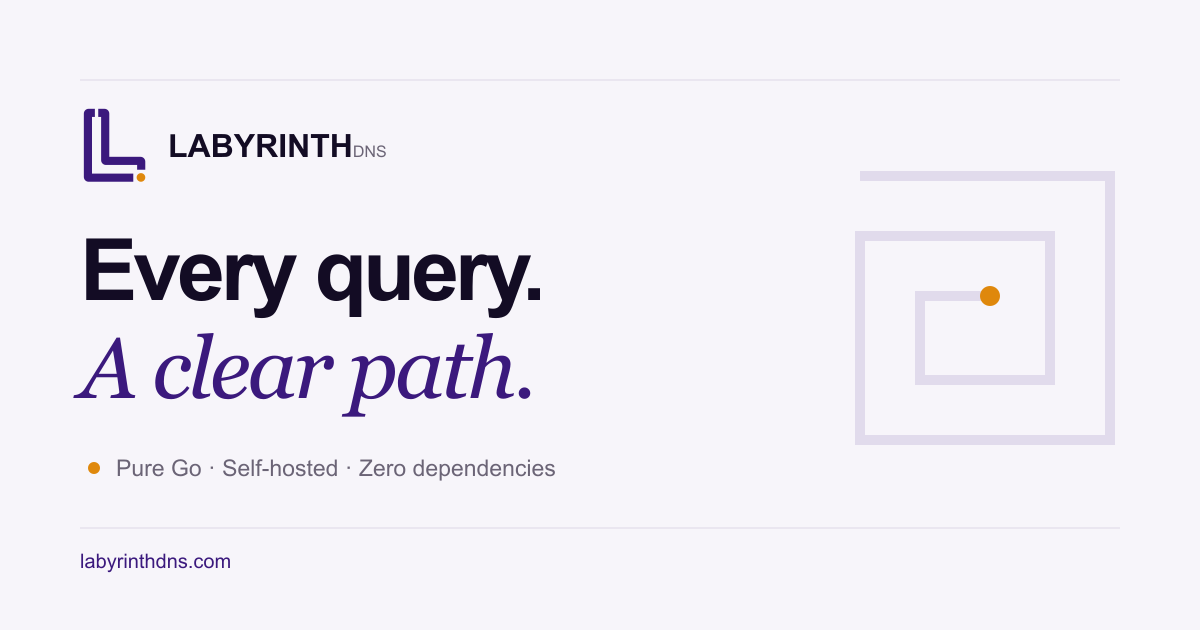
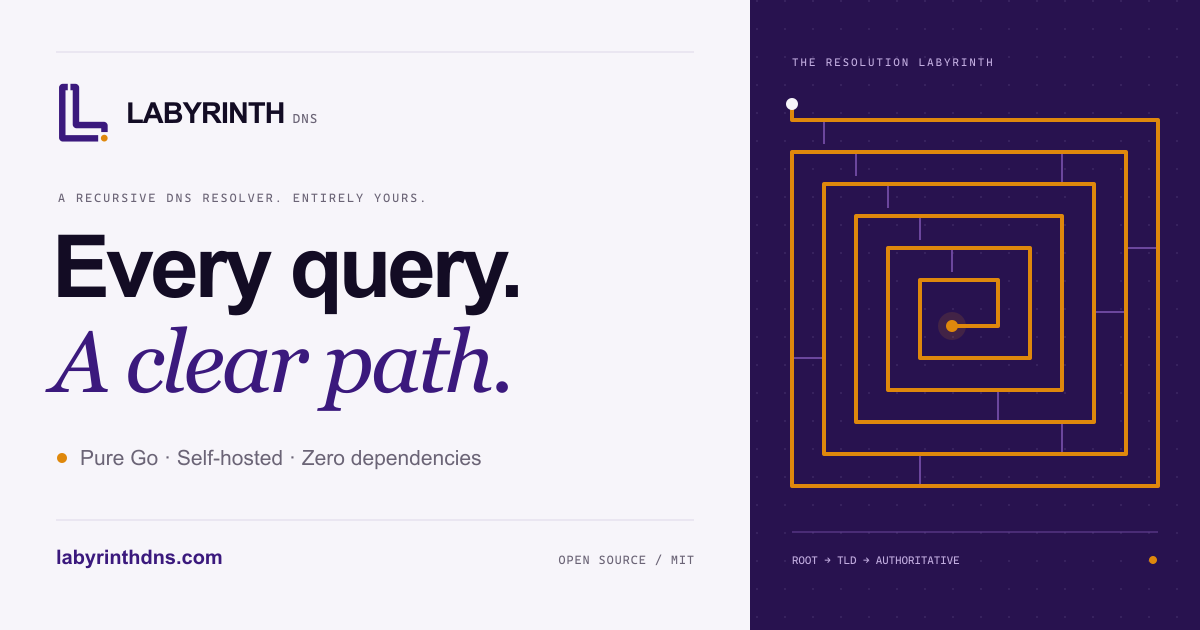
Refresh branded Open Graph image and image metadata

diff --git a/src/app/layout.tsx b/src/app/layout.tsx
@@ -43,7 +43,12 @@ export const metadata: Metadata = {
     url: "https://labyrinthdns.com",
     siteName: "Labyrinth DNS",
     type: "website",
-    images: ["/og.png"],
+    images: [{
+      url: "/og.png",
+      width: 1200,
+      height: 630,
+      alt: "Labyrinth DNS — Every query. A clear path. Pure Go, self-hosted, zero dependencies.",
+    }],
   },
   twitter: {
     card: "summary_large_image",
